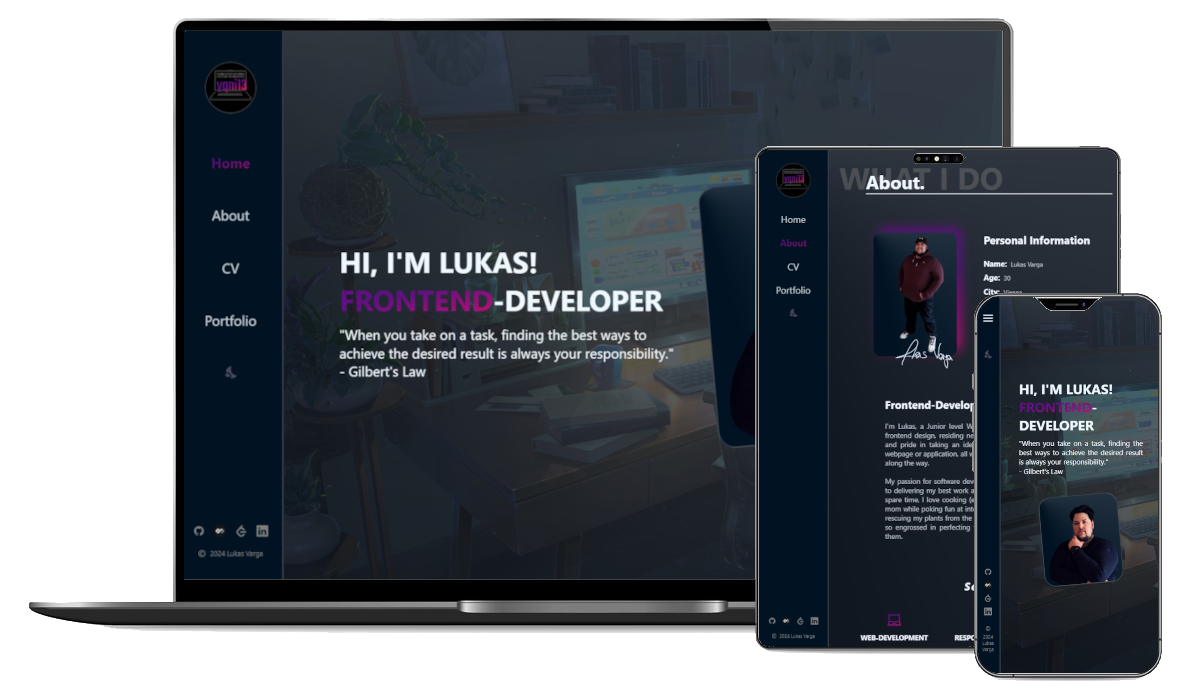
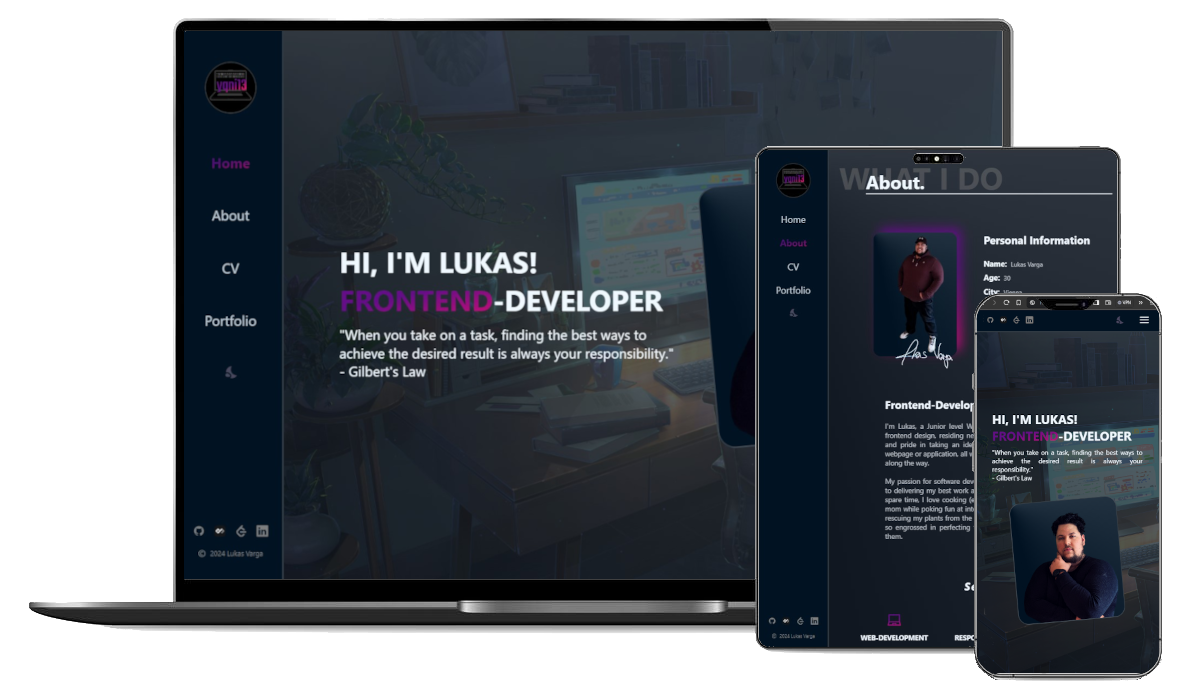
navbar top instead left (mobile); refactoring

Changed region(s): [[0.8104, 0.4242, 0.9975, 0.9394]]

diff --git a/src/stylesheets/media.scss b/src/stylesheets/media.scss
@@ -17,7 +17,7 @@
             width: var(--nav-logo); 
         }
         ul { 
-            width: var(--nav-width); 
+            width: var(--nav-size); 
         }
         .nav-collapse { 
             display: none!important; 
@@ -112,7 +112,7 @@
             width: var(--nav-logo); 
         }
         ul { 
-            width: var(--nav-width); 
+            width: var(--nav-size); 
         }
         .nav-collapse { 
             display: none!important; 
@@ -245,7 +245,7 @@
             width: var(--nav-logo); 
         }
         ul { 
-            width: var(--nav-width); 
+            width: var(--nav-size); 
         }
         .nav-collapse { 
             display: none!important; 
@@ -358,39 +358,66 @@
 
     // BASIC
     .box { 
-        margin-left: var(--block-margin); 
+        margin-left: 0; 
+        margin-top: var(--block-margin);
     }
     h2 {
         font-size: 35px;
         &::after {
             font-size: 70px!important;
-            top: 13px!important;
-            left: 85px;
+            top: 73px!important;
+            left: 5px;
         }
     }
     
     .nav-bar {
+        display: flex!important;
+        position: relative;
+        z-index: var(--nav-z);
         #nav-unfold { 
             display: block!important; 
         }
+        .nav-mobile {
+            width: var(--burgermenu-size);
+            height: var(--burgermenu-size);
+        }
         #nav-copyright { 
-            margin: var(--nav-copyright); 
+            margin: 0; 
         }
         #nav-logo { 
             width: var(--nav-logo); 
         }
         ul { 
-            width: var(--nav-width);
-            z-index: var(--nav-z);
+            width: 100vw;
+            height: var(--nav-size)!important;
+            flex-direction: var(--nav-direction)!important;
+            border-right: none!important;
+            border-bottom: solid var(--navbar-border) 3px;
         }
         .nav-full { 
             display: var(--nav-full)!important; 
         }
-        .nav-bar li {
-            padding: 30px 0px 0px 0px!important;
+        span, .setVisible {
+            font-size: var(--navtext-size)!important;
+        }
+        li {
+            padding: var(--nav-padding)!important;
+            align-self: center;
+        }
+        ul>:last-child {
+            margin: var(--copyright-margin)!important;
+            i, img {
+                width: var(--linkicons-size)!important;
+                height: var(--linkicons-size)!important;
+            }
         }
         ul>:last-child p {
             padding: 0 10px!important;
+            display: var(--copyright-display);
+            i {
+                width: 12px!important;
+                height: 12px!important;
+            }
         }
     }
 
@@ -515,21 +542,21 @@
 
 @media screen and (max-width: $phone-portrait-width) {
     
-    .nav-bar {
-        #nav-copyright { 
-            margin: var(--nav-copyright); 
-        }
-        #nav-logo { 
-            width: var(--nav-logo); 
-        }
-        ul { 
-            width: var(--nav-width);
-            z-index: var(--nav-z);
-        }
-        .nav-full { 
-            display: var(--nav-full)!important; 
-        }
-    }
+    // .nav-bar {
+    //     #nav-copyright { 
+    //         margin: var(--copyright-margin); 
+    //     }
+    //     #nav-logo { 
+    //         width: var(--nav-logo); 
+    //     }
+    //     ul { 
+    //         width: var(--nav-size);
+    //         z-index: var(--nav-z);
+    //     }
+    //     .nav-full { 
+    //         display: var(--nav-full)!important; 
+    //     }
+    // }
 
     .home {
         .profile-picture {

diff --git a/src/stylesheets/defines.scss b/src/stylesheets/defines.scss
@@ -9,27 +9,41 @@ $phone-portrait-width: 480px;
 
 /* window.screen.width <= 768px */
 [data-nav="navMobileExtended"] {
-    --nav-width: 100%;
-    --nav-z: 1;
-    --nav-copyright: 0 0 5px 0;
+    --nav-size: 100%;
+    --nav-direction: column;
+    --nav-z: 2;
+    --nav-padding: 30px 0px 0px 0px;
+    --copyright-margin: auto 0 5% 0;
+    --copyright-display: block;
     --nav-full: block;
     --block-margin: 60px;
-    --nav-logo: 100px;
+    --nav-logo: 150px;
+    --burgermenu-size: 50px;
+    --linkicons-size: 30px;
+    --navtext-size: 2rem;
 }
 
 /* window.screen.width <= 768px */
 [data-nav="navMobileCollapsed"] {
-    --nav-width: 60px;
-    --nav-z: 0;
-    --nav-copyright: 5px;
+    --nav-size: 60px;
+    --nav-direction: row-reverse;
+    --nav-z: 1;
+    --nav-padding: 0 30px 0 0;
+    --copyright-margin: 0 auto 0 5%;
+    --copyright-display: none;
     --nav-full: none;
     --block-margin: 60px;
+    --burgermenu-size: 30px;
+    --linkicons-size: 20px;
+    --navtext-size: 25px;
 }
 
 [data-nav="navDesktop"] {
-    --nav-width: 180px;
+    --nav-size: 180px;
     --nav-z: 0;
-    --nav-copyright: 0 0 5px 0;
+    --nav-padding: 30px 0px 0px 0px;
+    --copyright-margin: 0 0 5px 0;
+    --copyright-display: block;
     --nav-full: block;
     --block-margin: 180px;
     --nav-logo: 100px;

diff --git a/README.md b/README.md
@@ -1,5 +1,7 @@
 # yqni13 portfolio
-$\texttt{\color{teal}{v1.1.2}}$
+$\texttt{\color{teal}{v1.3.1}}$
+
+<br>
 
 <div>
     <img src="./src/assets/readme_img/readme_responsive_demonstration.png">
@@ -71,23 +73,18 @@ My portfolio comes with two theme settings: $\textsf{\color{gray}{Dark mode}}$ &
 ## Updates
 
 [list of all updates](src/docs/update_protocol.md)
-### $\textsf{last\ update\ 1.0.0\ >>\ {\color{pink}1.1.2}}$
+### $\textsf{last\ update\ 1.1.2\ >>\ {\color{pink}1.3.1}}$
 
-- $\textsf{\color{green}Addition:}$ New content added to 'Portfolio' component.
-- $\textsf{\color{orange}Change:}$ Logo in navbar redirects to 'Home' component.
-- $\textsf{\color{orange}Change:}$ Portfolio cards show keywords instead of text for easier search/highlighting.
-- $\textsf{\color{orange}Change:}$ Screen resolution detection checks now for change in zoom level too.
-- $\textsf{\color{red}Bugfix:}$ Portfolio project 'Tourplanner' displays correct data on details card. [Before: Details card for project 'Tourplanner' was showing data from another project.]
-- $\textsf{\color{red}Bugfix:}$ Application stays on current component after reload. [Before: Application always redirected to 'Home' component from everywhere after reload.]
+- $\textsf{\color{green}Change:}$ Navbar in mobile version is displayed on top instead on the left to give more space for the content in smaller viewports.
+- $\textsf{\color{green}Change:}$ Json data binding improved. Adapted with project-name as key for the regarding data object for easier maintenance.
+- $\textsf{\color{red}Bugfix:}$ GitHub link in the projects 'Clock' and 'Rating' from 'Portfolio' component navigate to the regarding repository. [Before: Links were missing and navigating back to Portfolio page.]
 
 <br>
 
 ### Aimed objectives for next $\textsf{\color{green}minor}$ update:
 <dl>
     <dd>- error handling for images failing to load</dd>
-    <dd>- improve data binding</dd>
     <dd>- create portfolio cards in html via *ngFor</dd>
-    <dd>- move navbar in mobile version from vertical left to horizontal top</dd>
     <dd>- customized error page</dd>
 </dl>
 <br>

diff --git a/src/docs/update_protocol.md b/src/docs/update_protocol.md
@@ -4,11 +4,17 @@
 
 <br>
 
+### 2024/6/16 - $\textsf{update\ 1.1.2\ >>\ {\color{pink}1.3.1}}$
+
+- $\textsf{\color{green}Change:}$ Navbar in mobile version is displayed on top instead on the left to give more space for the content in smaller viewports.
+- $\textsf{\color{green}Change:}$ Json data binding improved. Adapted with project-name as key for the regarding data object for easier maintenance.
+- $\textsf{\color{red}Bugfix:}$ GitHub link in the projects 'Clock' and 'Rating' from 'Portfolio' component navigate to the regarding repository. [Before: Links were missing and navigating back to Portfolio page.]
+
 ### 2024/6/8 - $\textsf{update\ 1.0.0\ >>\ {\color{pink}1.1.2}}$
 
-- $\textsf{\color{green}Addition:}$ New content added to 'Portfolio' component.
-- $\textsf{\color{orange}Change:}$ Logo in navbar redirects to 'Home' component.
-- $\textsf{\color{orange}Change:}$ Portfolio cards show keywords instead of text for easier search/highlighting.
-- $\textsf{\color{orange}Change:}$ Screen resolution detection checks now for change in zoom level too.
+- $\textsf{\color{teal}Addition:}$ New content added to 'Portfolio' component.
+- $\textsf{\color{green}Change:}$ Logo in navbar redirects to 'Home' component.
+- $\textsf{\color{green}Change:}$ Portfolio cards show keywords instead of text for easier search/highlighting.
+- $\textsf{\color{green}Change:}$ Screen resolution detection checks now for change in zoom level too.
 - $\textsf{\color{red}Bugfix:}$ Portfolio project 'Tourplanner' displays correct data on details card. [Before: Details card for project 'Tourplanner' was showing data from another project.]
 - $\textsf{\color{red}Bugfix:}$ Application stays on current component after reload. [Before: Application always redirected to 'Home' component from everywhere after reload.]
